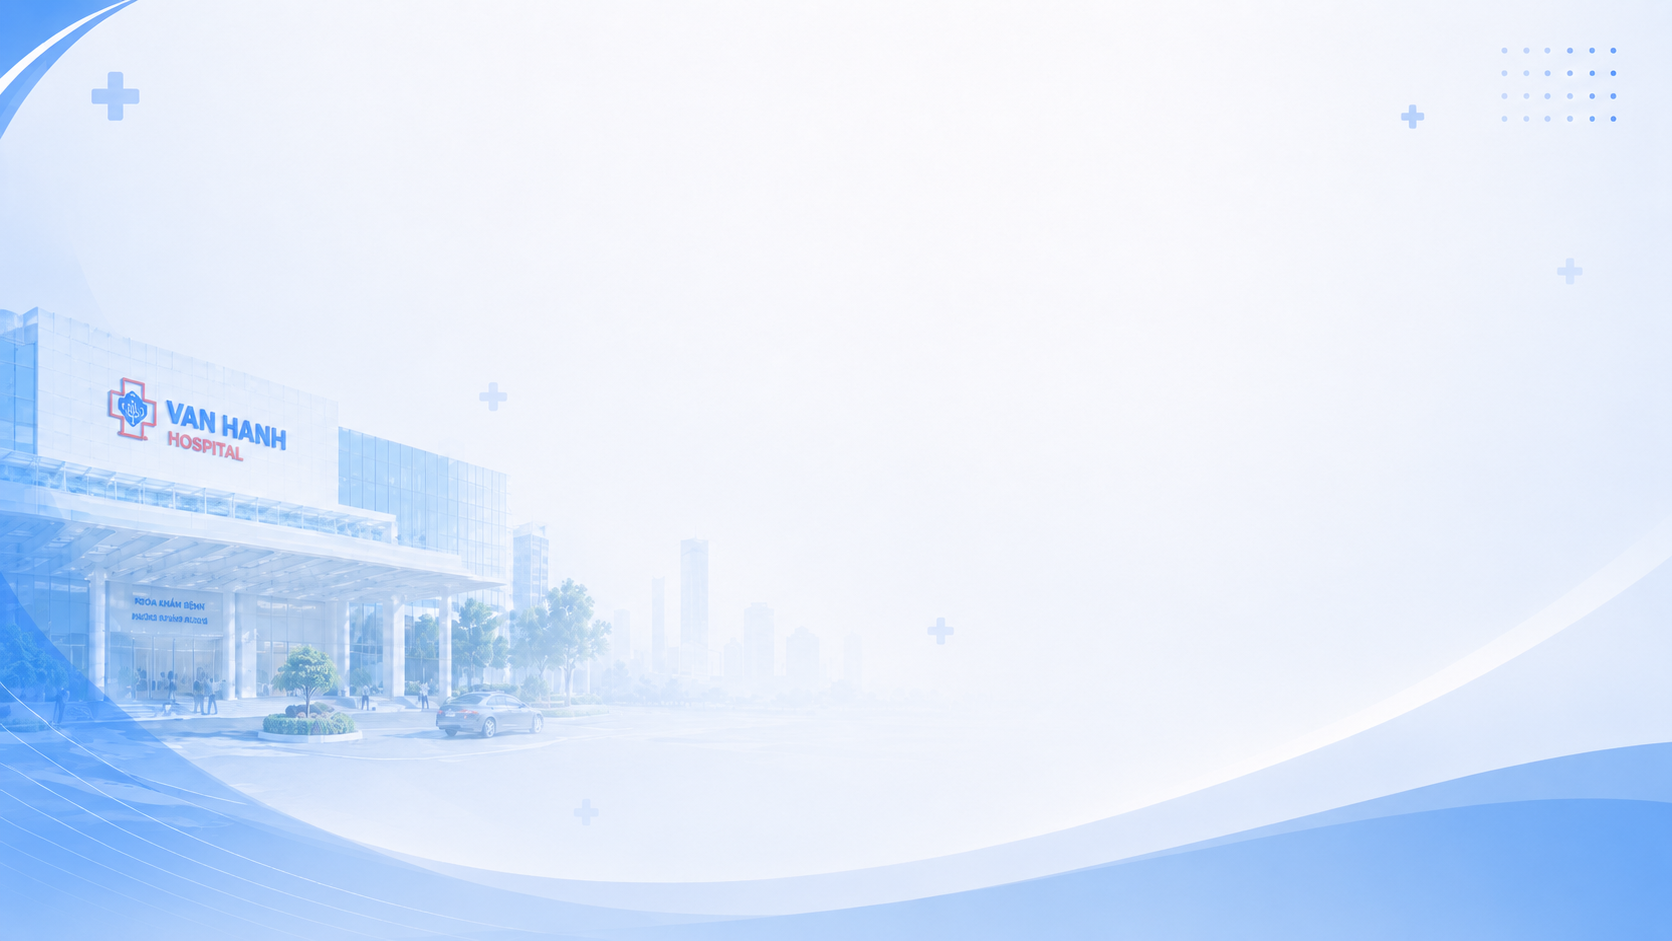
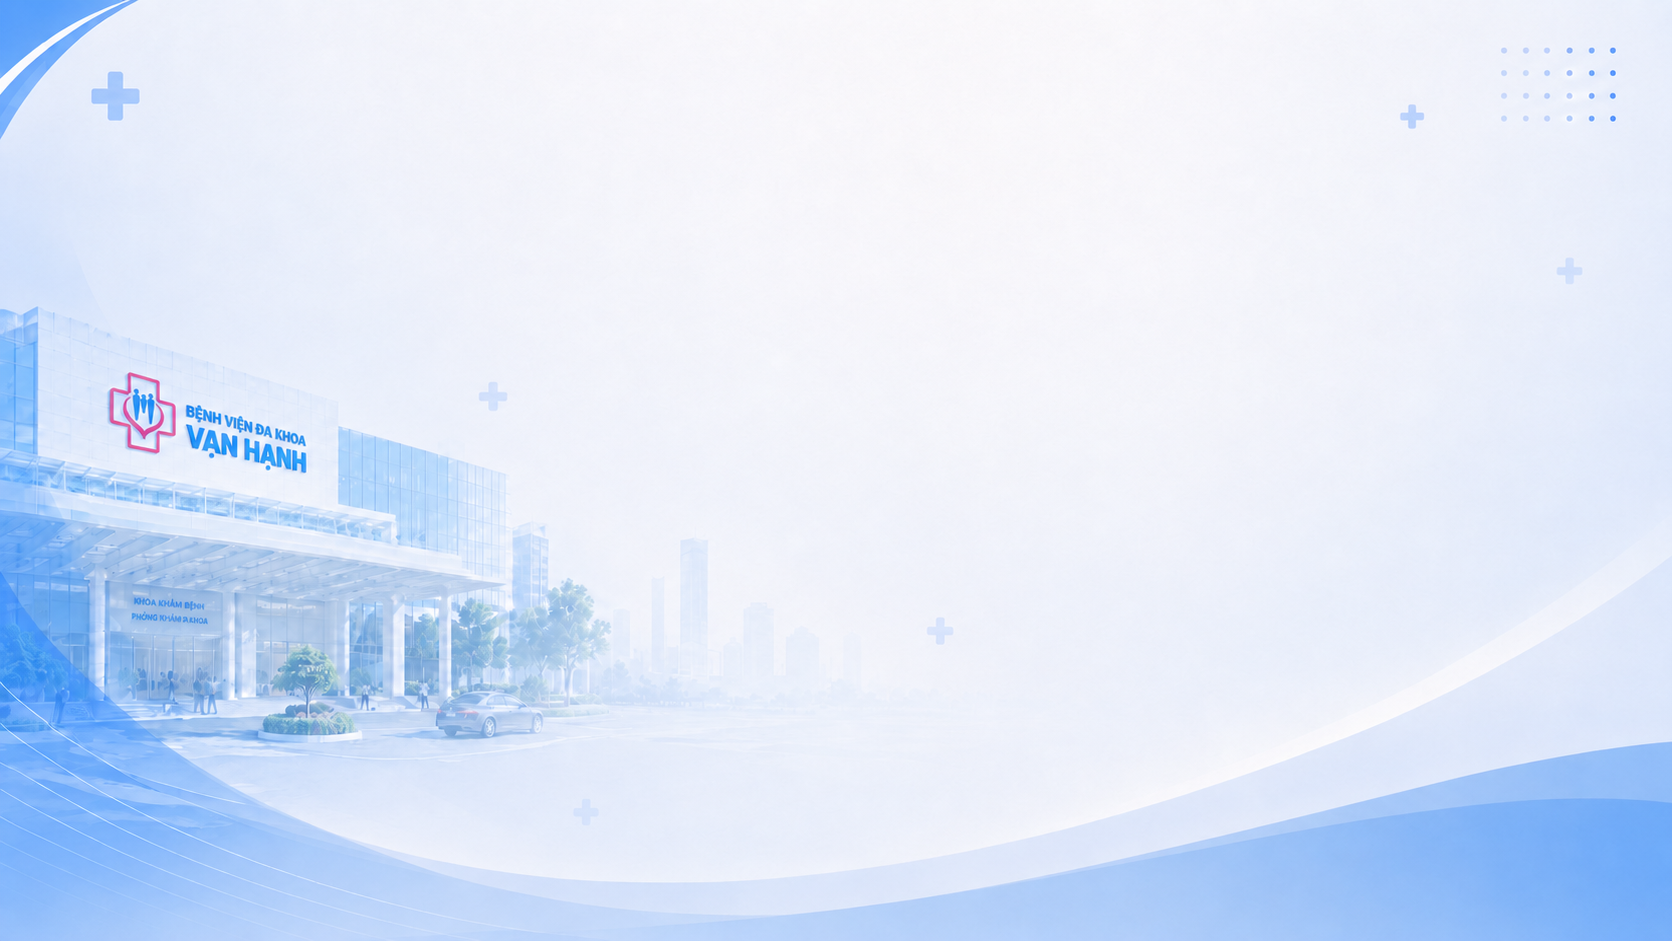
fix  background login

Changed region(s): [[0.0622, 0.4006, 0.1866, 0.5239]]

diff --git a/src/app/auth/login/components/LoginFormView.tsx b/src/app/auth/login/components/LoginFormView.tsx
@@ -63,14 +63,14 @@ export function LoginFormView() {
               priority
             />
             <div>
-              <p className="text-sm font-bold tracking-wide text-primary-700">BỆNH VIỆN VẠN HẠNH</p>
+              <p className="text-sm font-bold tracking-wide text-primary-700">BỆNH VIỆN ĐA KHOA VẠN HẠNH</p>
 
               <p className="text-sm text-text-slate">Cổng quản trị nội bộ</p>
             </div>
           </div>
 
           {/* Heading */}
-          <h1 className="text-4xl font-bold leading-tight text-text-navy xl:text-5xl">
+          <h1 className="text-4xl font-bold leading-tight text-text-navy xl:text-4xl">
             Quản lý vận hành bệnh viện
             <br />
             <span className="text-primary-600">nhanh chóng</span> và an toàn
